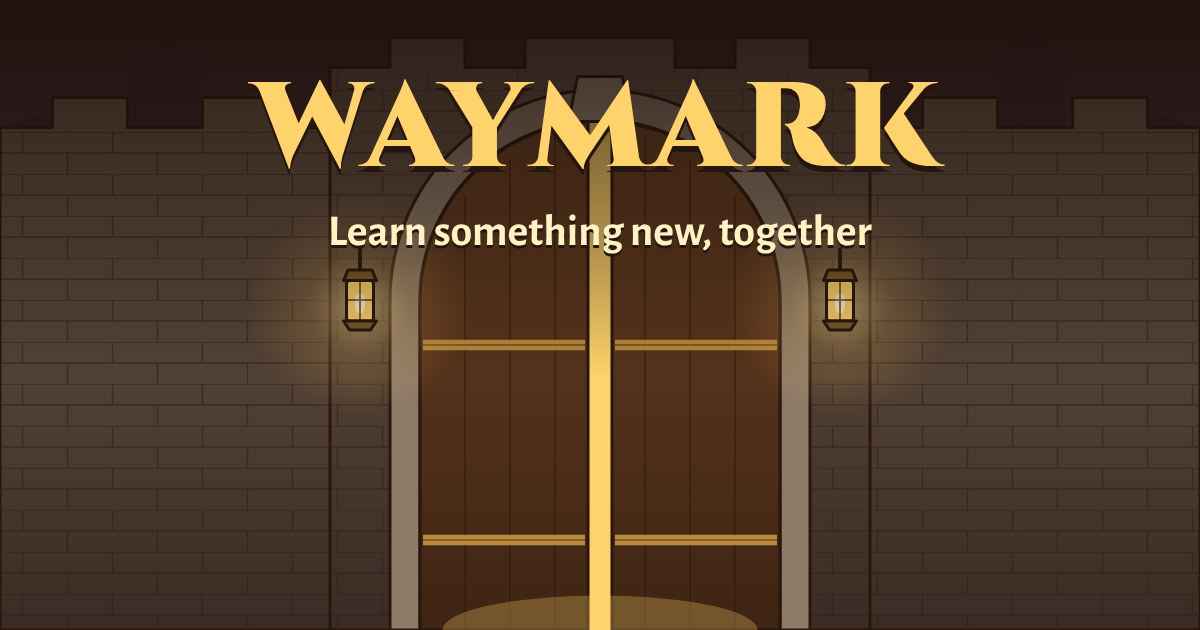
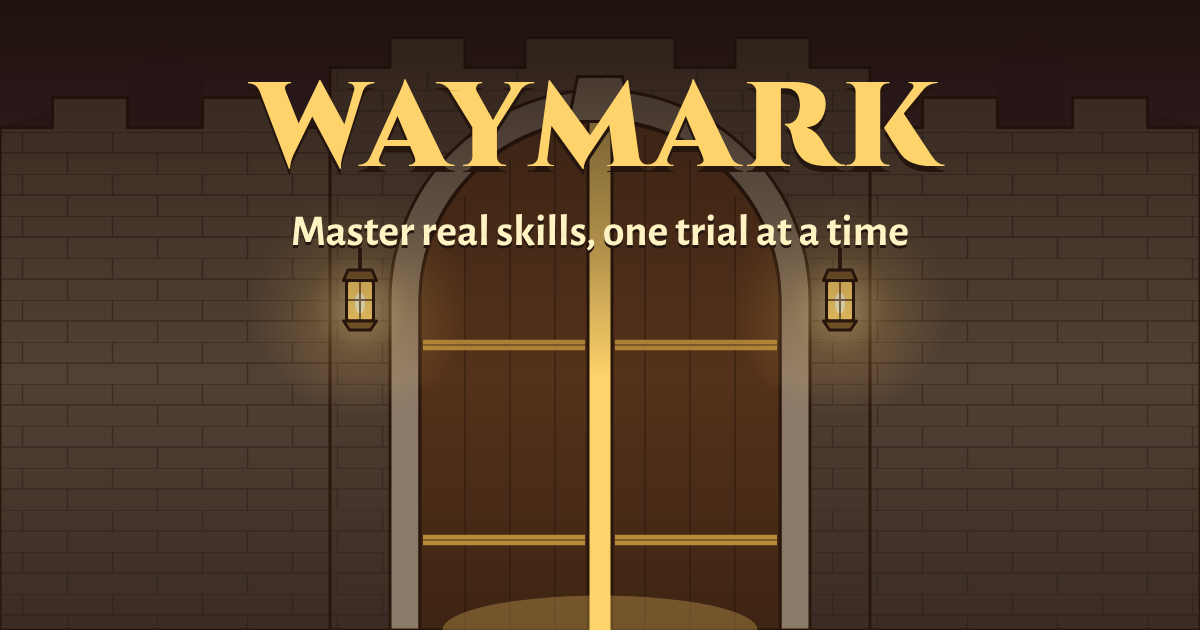
Link card: "Master real skills, one trial at a time"
Claude-Session: https://claude.ai/code/session_01U8n1nQX8GbhgDHJfyBbuNL

Changed region(s): [[0.2467, 0.3317, 0.7708, 0.4222]]

diff --git a/index.html b/index.html
@@ -10,7 +10,7 @@
     <title>Waymark</title>
     <meta
       name="description"
-      content="A learning hub that plays like a game: walk the road through a painted city, learn something new, and bring your friends."
+      content="A learning hub that plays like a game: master real skills through trials and ranks on a road through a painted city, with your friends."
     />
     <!-- The link preview card (scripts/og-image.ts). %SITE% is the live site's address, from vite.config.ts. -->
     <meta property="og:type" content="website" />
@@ -18,7 +18,7 @@
     <meta property="og:title" content="Waymark" />
     <meta
       property="og:description"
-      content="A learning hub that plays like a game: walk the road through a painted city, learn something new, and bring your friends."
+      content="A learning hub that plays like a game: master real skills through trials and ranks on a road through a painted city, with your friends."
     />
     <meta property="og:image" content="%SITE%/og-image.png" />
     <meta property="og:image:width" content="1200" />

diff --git a/scripts/og-image.ts b/scripts/og-image.ts
@@ -11,7 +11,7 @@ import { renderToStaticMarkup } from 'react-dom/server';
 import { chromium } from 'playwright';
 import { createServer } from 'vite';
 
-export const OG_LINE = 'Learn something new, together';
+export const OG_LINE = 'Master real skills, one trial at a time';
 const OUT = new URL('../public/og-image.png', import.meta.url);
 
 const font = (path: string) =>

diff --git a/docs/process/reports/2026-11-09.md b/docs/process/reports/2026-11-09.md
@@ -1457,7 +1457,7 @@ Adam, playing: "in the registration screen there is no confirm password or forgo
 Adam added `SUPABASE_SECRET_KEY` and invites work on the dev site. Then: "make it more presentable so when I send the link to a friend it looks good."
 
 - **Who sent it.** The join page opens with "Adam invited you to Waymark." (the inviter's chosen name; without one, "You've been invited to Waymark."). `invite_from` gives it only while the link can still be used, and only to `api/join.ts`.
-- **A preview card.** WhatsApp and Messages now show the city gate at dusk, WAYMARK and "Learn something new, together" under a link (Adam: Waymark is a learning hub, so it isn't introduced by the subjects it has today), from Open Graph tags and `public/og-image.png` (1200 × 630, 47 KB, drawn from the sign-in screen's own painting by `scripts/og-image.ts`). The card's address comes from Vercel's own `VERCEL_PROJECT_PRODUCTION_URL`, so it will follow a custom domain with no change.
+- **A preview card.** WhatsApp and Messages now show the city gate at dusk, WAYMARK and "Master real skills, one trial at a time" under a link (Adam: Waymark is a learning hub, so it isn't introduced by the subjects it has today; and "learn something new" was too vague), from Open Graph tags and `public/og-image.png` (1200 × 630, 47 KB, drawn from the sign-in screen's own painting by `scripts/og-image.ts`). The card's address comes from Vercel's own `VERCEL_PROJECT_PRODUCTION_URL`, so it will follow a custom domain with no change.
 - **Only live-site links work for friends.** The dev site is behind Vercel Authentication: a friend can't open its links, and chat apps can't read its card. So the card shows once this is released.
 - **The domain, parked.** waymark.com is taken. Every candidate was checked against Verisign's .com registry (RDAP; "not found" means unregistered). Adam liked `ogmaquest.com` and `eosquest.com`; shortlist in their style: alifroad, eossaga, nursaga, vegaroad, samaquest, noorroad, iotaplay. He said "leave it for later". Buying one costs money each year, so it's his call.
 - **Tests:** the database (who sent it, only while open, no player may ask), the function (name, no name, unreadable name, closed link), the browser helper and the join page; a test that the tags point at the card and the card is a 1200 × 630 PNG under 300 KB.
